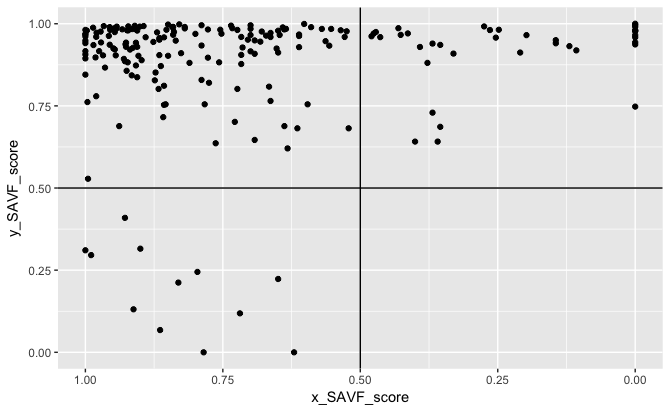
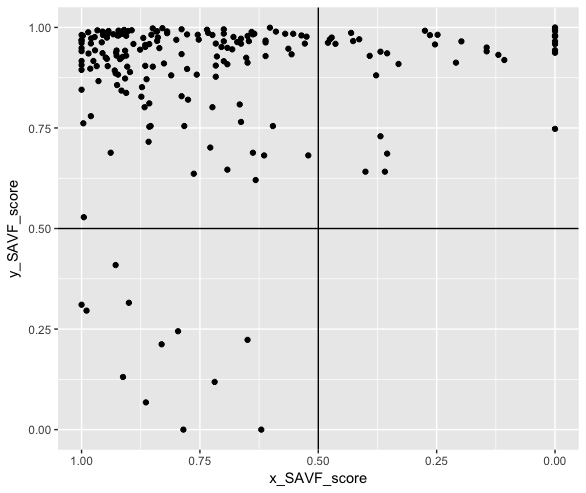
updating image and Kraljic post

diff --git a/_posts/2017-01-01-kraljicmatrix-package.md b/_posts/2017-01-01-kraljicmatrix-package.md
@@ -6,7 +6,7 @@ published: true
 tags: [r, analytics]
 ---
 
-<a href="http://bradleyboehmke.github.io/2016/12/kraljicmatrix-package.html"><img src="http://bradleyboehmke.github.io/figure/source/kraljicmatrix-package/2017-01-01-kraljicmatrix-package/plot.png" alt="Kraljic Matrix" style="float:left; margin:2px 8px 0px 0px; width: 17%; height: 17%;"></a>
+<a href="http://bradleyboehmke.github.io/2016/12/kraljicmatrix-package.html"><img src="http://bradleyboehmke.github.io/figure/source/kraljicmatrix-package/2017-01-01-kraljicmatrix-package/plot.png" alt="Kraljic Matrix" style="float:left; margin: 0px 10px -5px 0px; width: 20%; height: 20%;"></a>
 Purchasing strategies are a significant contributing factor to the overall performance of a firm. Not only has it been argued that transitioning purchasing from a tactical to a strategic role provides sustainable competitive advantage, compelling evidence supports the relationship between strategic purchasing and supplier integration, performance, power, and total cost of ownership among other benefits. Consequently, it has become widely accepted that establishing a strategic purchasing approach is imperative for today’s firm. <!--more--> 
 
 Towards this goal, the most established portfolio model in literature and practice is Kraljic’s model[^kraljic] known as the Kraljic Portfolio Matrix (KPM). However, one of the primary weaknesses of the KPM is the qualitative nature of the model, which results in a subjective method for weighting and positioning suppliers or commodities in the quadrants of the KPM. Thus, [Jason Freels](https://github.com/Auburngrads) and I developed the [`kraljicMatrix` package](https://cran.rstudio.com/web/packages/KraljicMatrix/index.html) to be used as a quantitative framework to objectively position purchases in the KPM matrix along with identifying which products and services to begin strategic sourcing efforts with. This post provides some explanation behind the functionality of `kraljicMatrix`, which is largely based on research illustrated in this [Kraljic Matrix paper](https://www.dropbox.com/s/vkwrirmp1bdvp66/Article%20Submitted.docx?dl=0) produced by two other authors and myself.
@@ -279,16 +279,16 @@ MAVF_sensitivity(psc,
 ## # A tibble: 200 × 8
 ##      PSC MAVF_Min MAVF_1st_Q MAVF_Median MAVF_Mean MAVF_3rd_Q
 ##    <chr>    <dbl>      <dbl>       <dbl>     <dbl>      <dbl>
-## 1   D233   0.8153     0.8299      0.8400    0.8395     0.8493
-## 2   F352   0.9521     0.9572      0.9591    0.9592     0.9614
-## 3   T713   0.8473     0.8614      0.8678    0.8680     0.8747
-## 4   K833   0.7722     0.7885      0.8025    0.8019     0.8151
-## 5   Q121   0.8598     0.8731      0.8788    0.8790     0.8851
-## 6   C791   0.8774     0.8862      0.8941    0.8938     0.9016
-## 7   Y207   0.8812     0.8912      0.8977    0.8973     0.9037
-## 8   W439   0.6778     0.7025      0.7157    0.7157     0.7286
-## 9   N290   0.4956     0.5276      0.5555    0.5543     0.5816
-## 10  C251   0.2478     0.2992      0.3483    0.3478     0.3975
+## 1   D233   0.8152     0.8293      0.8393    0.8395     0.8490
+## 2   F352   0.9519     0.9570      0.9594    0.9593     0.9614
+## 3   T713   0.8469     0.8610      0.8683    0.8680     0.8746
+## 4   K833   0.7722     0.7881      0.8015    0.8018     0.8151
+## 5   Q121   0.8593     0.8728      0.8793    0.8791     0.8851
+## 6   C791   0.8775     0.8861      0.8938    0.8938     0.9016
+## 7   Y207   0.8812     0.8906      0.8972    0.8974     0.9035
+## 8   W439   0.6772     0.7021      0.7163    0.7158     0.7290
+## 9   N290   0.4958     0.5265      0.5539    0.5542     0.5812
+## 10  C251   0.2478     0.2980      0.3461    0.3475     0.3974
 ## # ... with 190 more rows, and 2 more variables: MAVF_Max <dbl>,
 ## #   MAVF_Range <dbl>
 {% endhighlight %}
